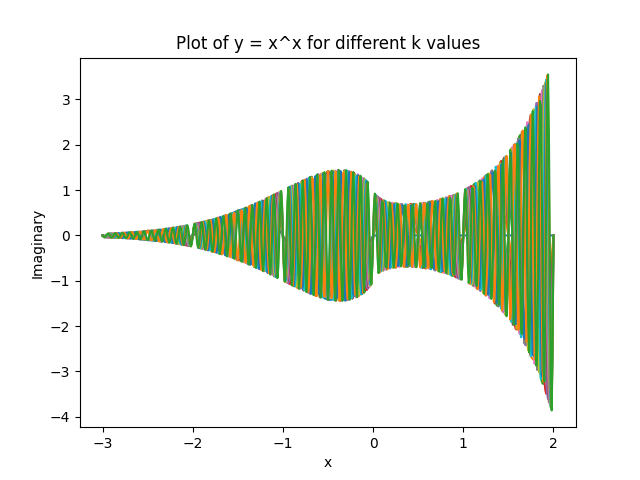
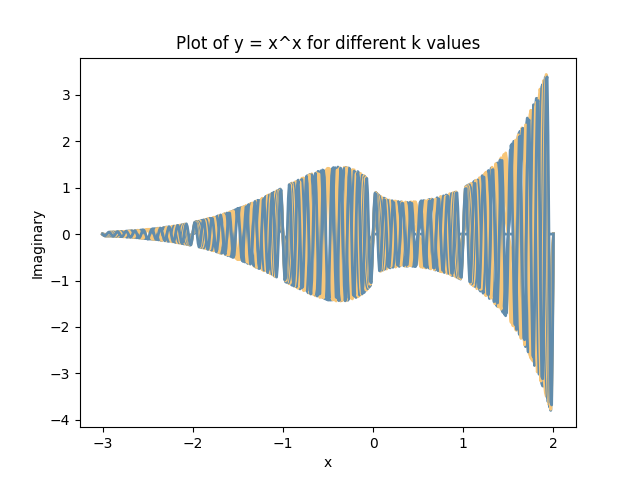
experiment with different colors for the lines

diff --git a/x-power-x.py b/x-power-x.py
@@ -6,8 +6,10 @@ from mpl_toolkits.mplot3d import Axes3D
 x_positive = np.linspace(0.01, 2.0, 200)
 x_negative = np.linspace(-3.0, -0.01, 300)
 
-# Define the k values
-k_values = [0, 1, 2, 3, 4, 5, 6, 7, 8, 9, 10, 11, 12]
+# Define the k values and colors
+k_values = [0, 1, 2, 3, 4, 5, 6, 7, 8, 9, 10]
+color2 = "#F7C679"
+color1 = "#618CAC"
 
 # Create a 3D plot
 fig = plt.figure()
@@ -33,8 +35,11 @@ for k in k_values:
     y_real = np.real(y)
     y_imag = np.imag(y)
 
+    # Define the color based on even or odd k
+    color = color1 if k % 2 == 0 else color2
+
     # Plot the real and imaginary parts together
-    ax.plot(x, y_real, y_imag, label=f"y = x^x, k={k}")
+    ax.plot(x, y_real, y_imag, label=f"y = x^x, k={k}", color=color, linewidth=2)
 
 # Set labels and title
 ax.set_xlabel("x")
@@ -71,8 +76,11 @@ for k in k_values:
     y_real = np.real(y)
     y_imag = np.imag(y)
 
+    # Define the color based on even or odd k
+    color = color1 if k % 2 == 0 else color2
+
     # Plot the real and imaginary parts together
-    plt.plot(x, y_imag, label=f"y = x^x, k={k}")
+    plt.plot(x, y_imag, label=f"y = x^x, k={k}", color=color, linewidth=2)
 
 
 # Set labels and title
